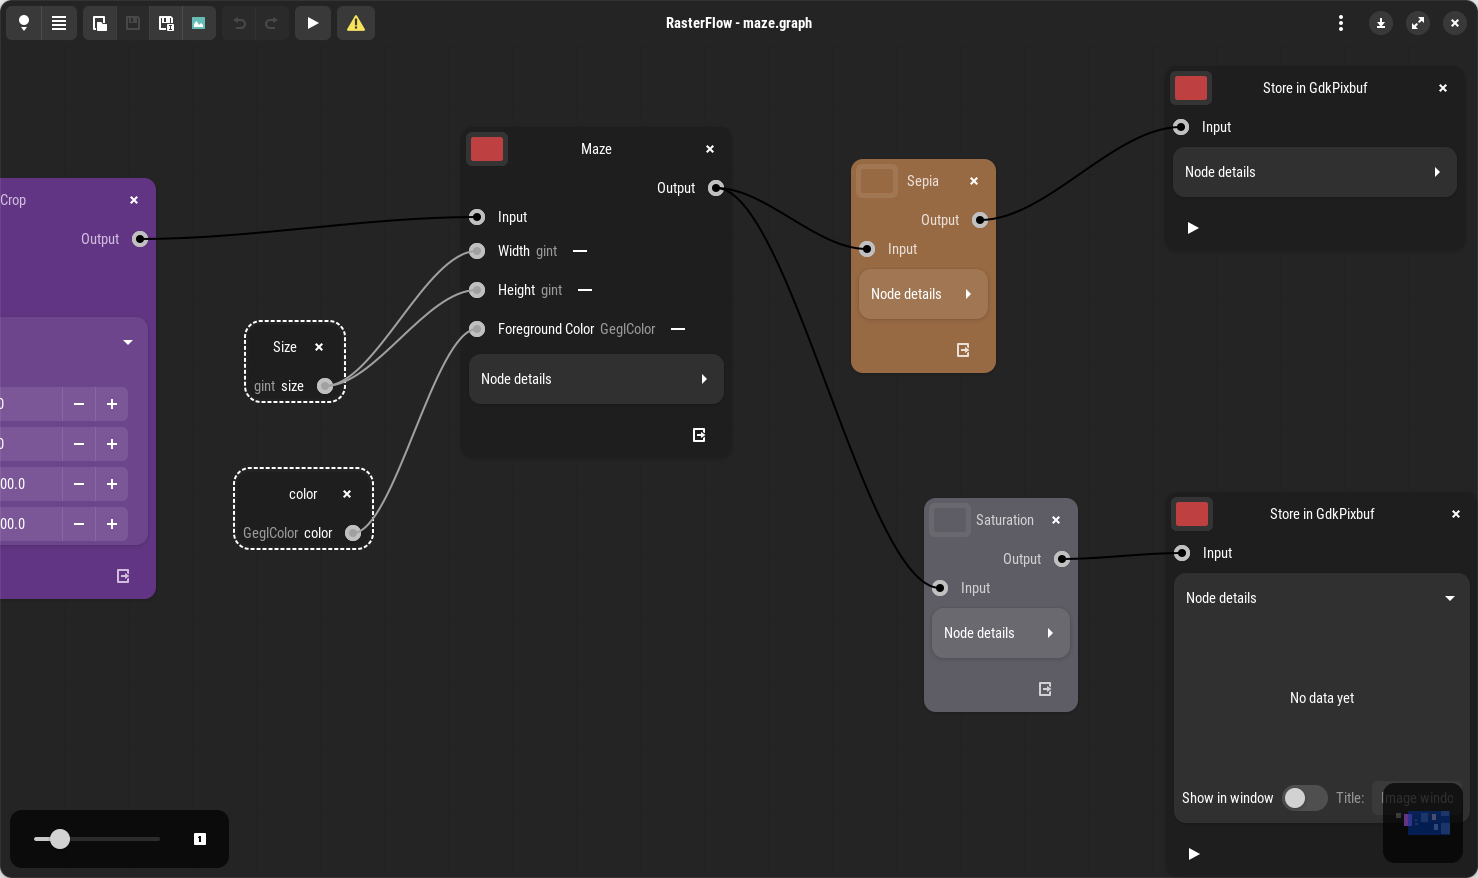
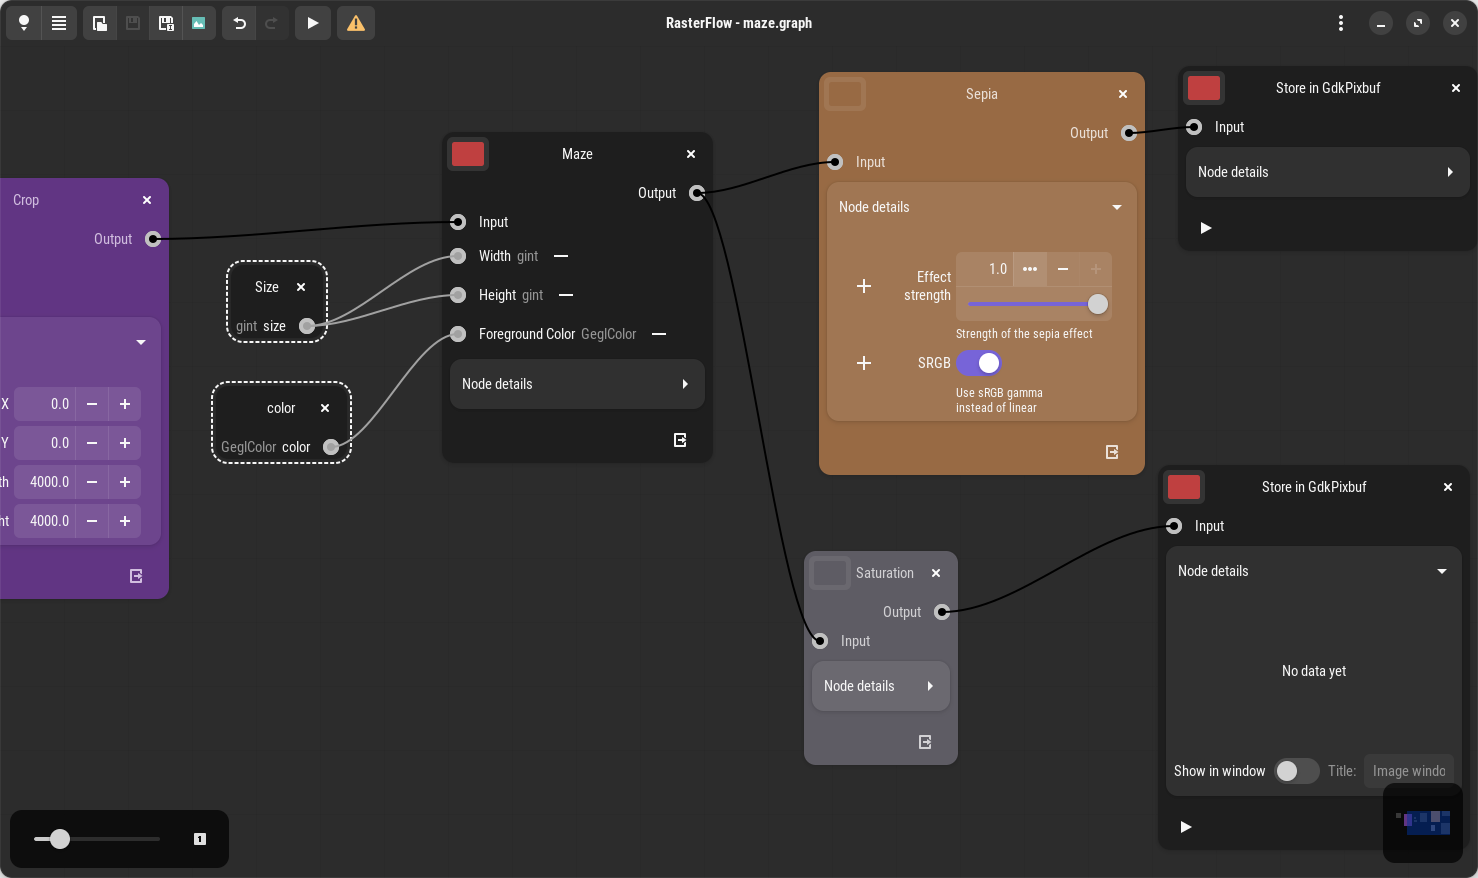
Release 0.1.5

diff --git a/content/pages/get-rasterflow.md b/content/pages/get-rasterflow.md
@@ -1,8 +1,8 @@
 ---
 title: Get RasterFlow.
 description: Get the newest release of RasterFlow, powered by GEGL and GTK4.
-version: 0.1.2
-releaseDate: 17.11.2025
+version: 0.1.5
+releaseDate: 07.12.2025
 ---
 
 ::u-page-hero{class="dark:bg-gradient-to-b from-neutral-900 to-neutral-950 -mb-12"}
@@ -51,7 +51,7 @@ Each package includes all dependencies required to start generating procedural i
           
           ::ellipsis-copy
           ---
-          text: sha256:f0a0af5d5780b4cc34f4e7c22694f980a7bc9329ae412ce8e937c780d03c4d4c
+          text: sha256:9e51db0989cc79289efb509f43c6e736efe5ae2d20f4010cb852e36d5fcee1e6
           ---
           ::
         ::
@@ -80,11 +80,6 @@ Each package includes all dependencies required to start generating procedural i
     ::
 
   #macos
-    ::note{class="max-w-md"}
-    When installing Rasterflow on macOS, GEGL will be built from source automatically, 
-    as the default Homebrew bottle lacks `gdk-pixbuf` support required by Rasterflow.
-    ::
-  
     ::steps{level="4" class="place-self-center"}
 
     #### Install RasterFlow
@@ -97,6 +92,16 @@ Each package includes all dependencies required to start generating procedural i
 
     ```bash [Terminal]
     rasterflow
+    ```
+    
+    
+    #### Upgrade RasterFlow
+
+    In order to upgrade to latest version if you have already RasterFlow installed simply put:
+    
+    ```bash [Terminal]
+    brew update
+    brew upgrade
     ```
     ::
     
@@ -120,7 +125,7 @@ Each package includes all dependencies required to start generating procedural i
         ::u-page-feature
         ---
         title: File Size
-        description: 58MB
+        description: 59.6MB
         icon: i-lucide-weight
         ---
         ::
@@ -135,7 +140,7 @@ Each package includes all dependencies required to start generating procedural i
           
           ::ellipsis-copy
           ---
-          text: sha256:714e2e1b9c20e9c21fa39e077cffcf41192d7697818d69dd642e6db144785b49
+          text: sha256:680225ccaca12d4f91a349bfea29b5ea63f5358aefd0b5fbd9f7313196d06d87
           ---
           ::
         ::
@@ -156,6 +161,22 @@ class: dark:bg-neutral-900 pt-12
   ---
   indicator-motion: true
   ---
+    ::u-changelog-version
+    ---
+    title: 'RasterFlow 0.1.5'
+    date: '2025-12-17'
+    badge: '0.1.5'
+    description: 'Enhanced user interaction and cross-platform stability.'
+    to: 'https://github.com/flatscrew/rasterflow/releases/tag/v0.1.5'
+    ---
+    #body
+    ![New scale widget](/images/changelog/new-scale-widget-trimmed.png){:width="700" sizes="100vw md:700px" class="w-auto"}
+    
+    - Introduced a new custom scale widget used across all numeric properties, providing more precise control and a consistent UI experience,
+    - Added infinite graph panning for smoother exploration of large node setups,
+    - Fixed a Windows issue causing conflicts with GIMP when setting the `BABL_PATH` and `GEGL_PATH` environment variables,
+    ::
+  
     ::u-changelog-version
     ---
     title: 'RasterFlow 0.1.2'
